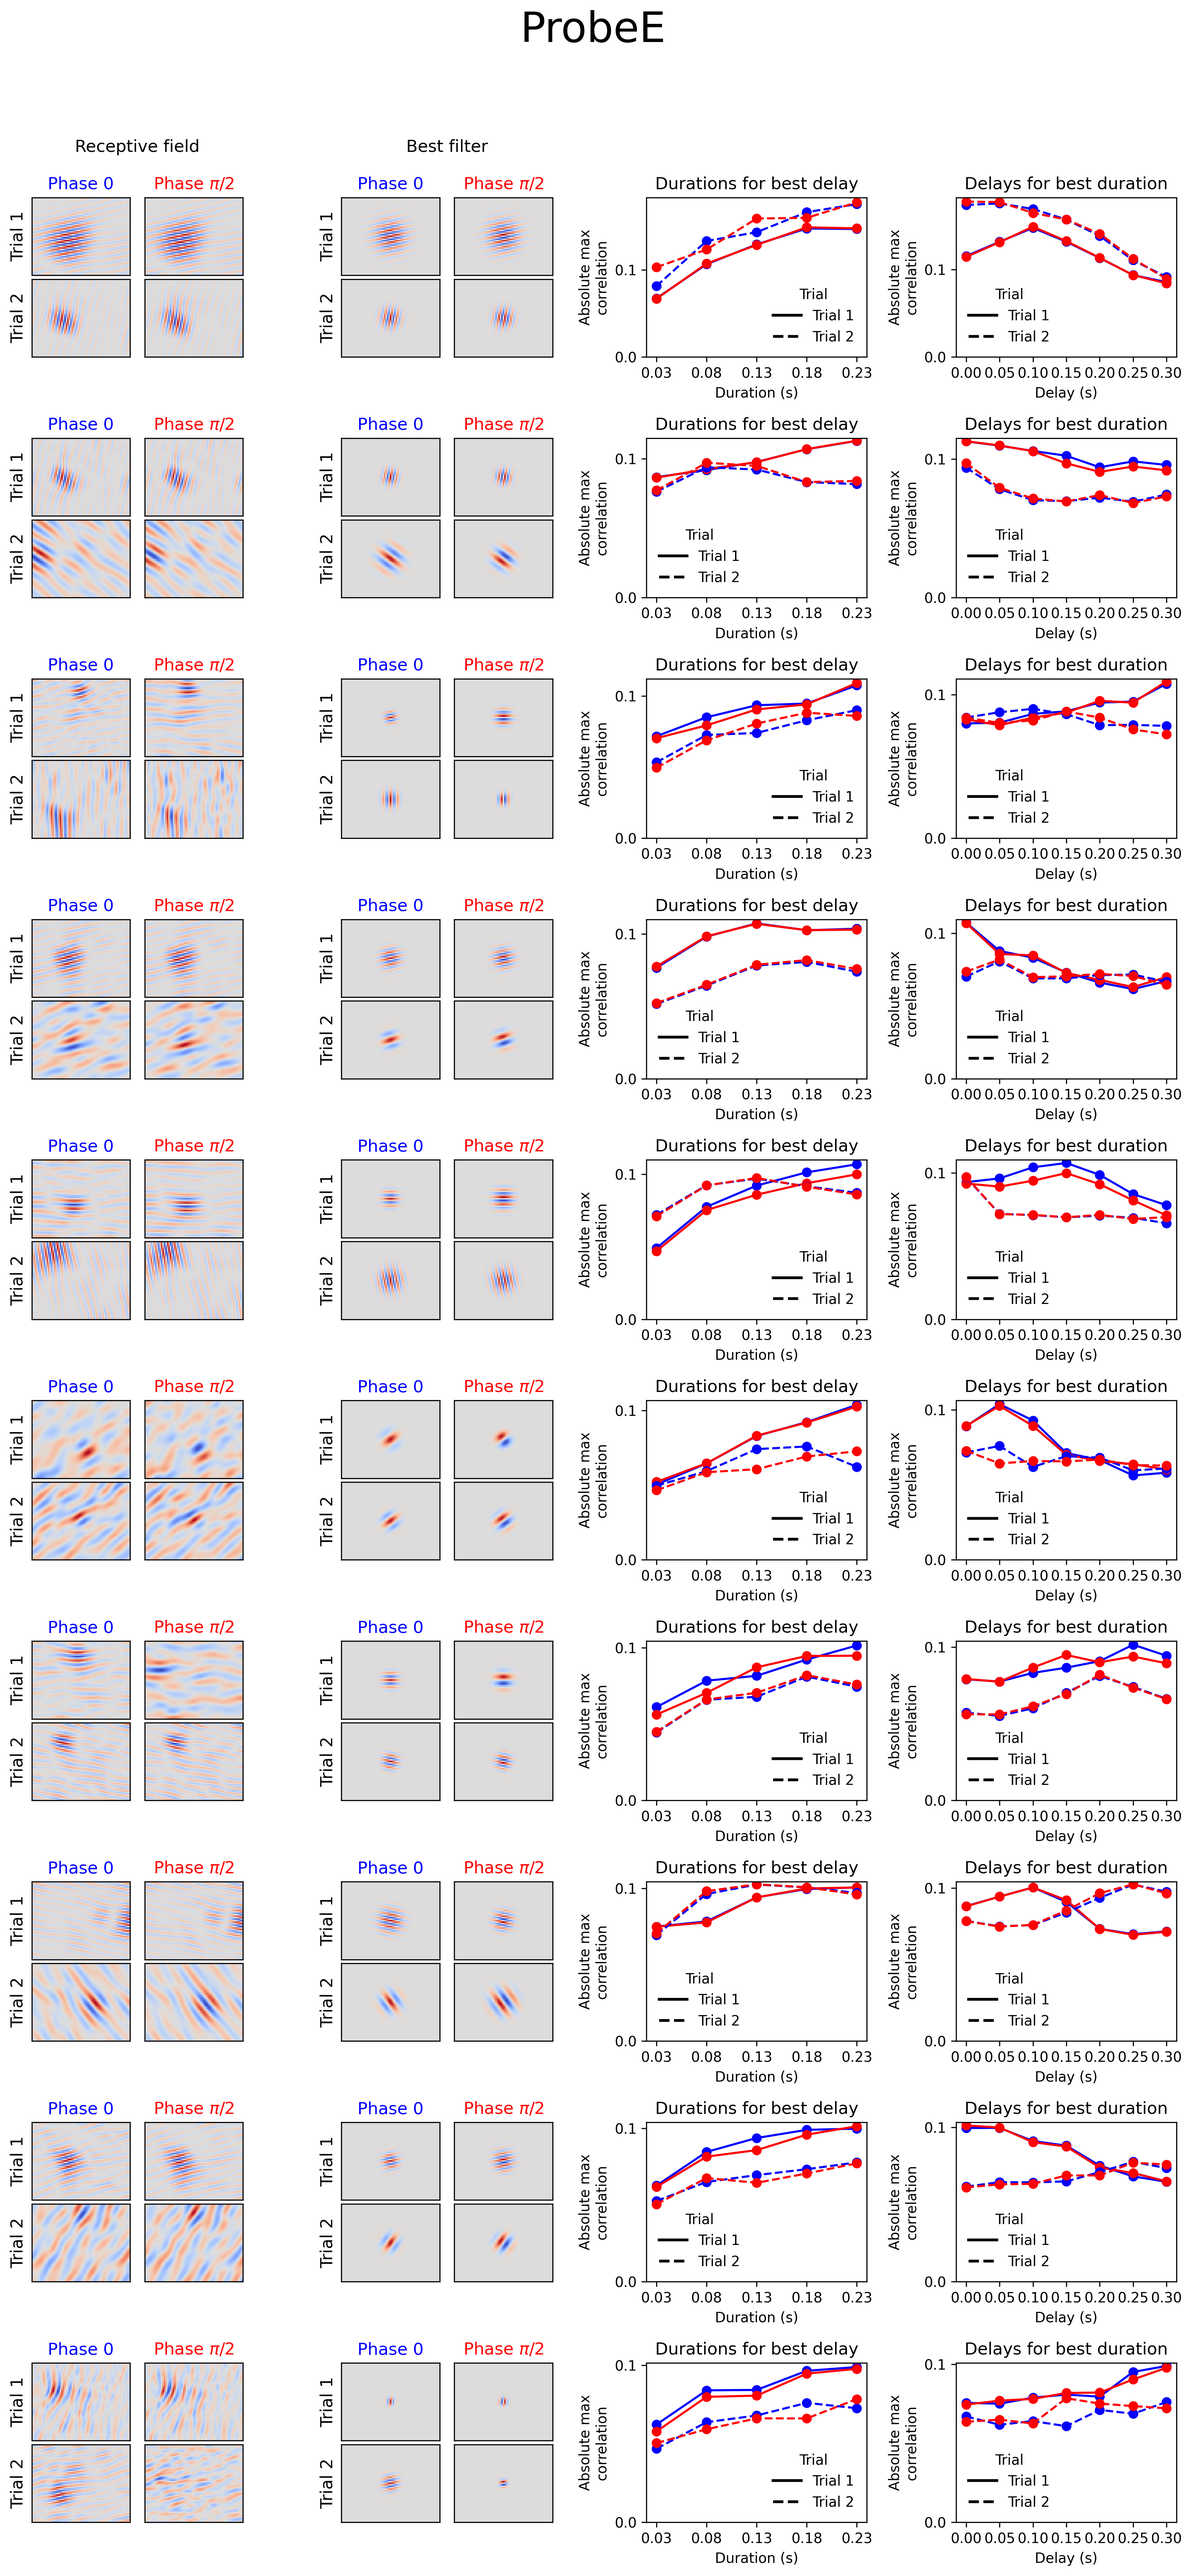
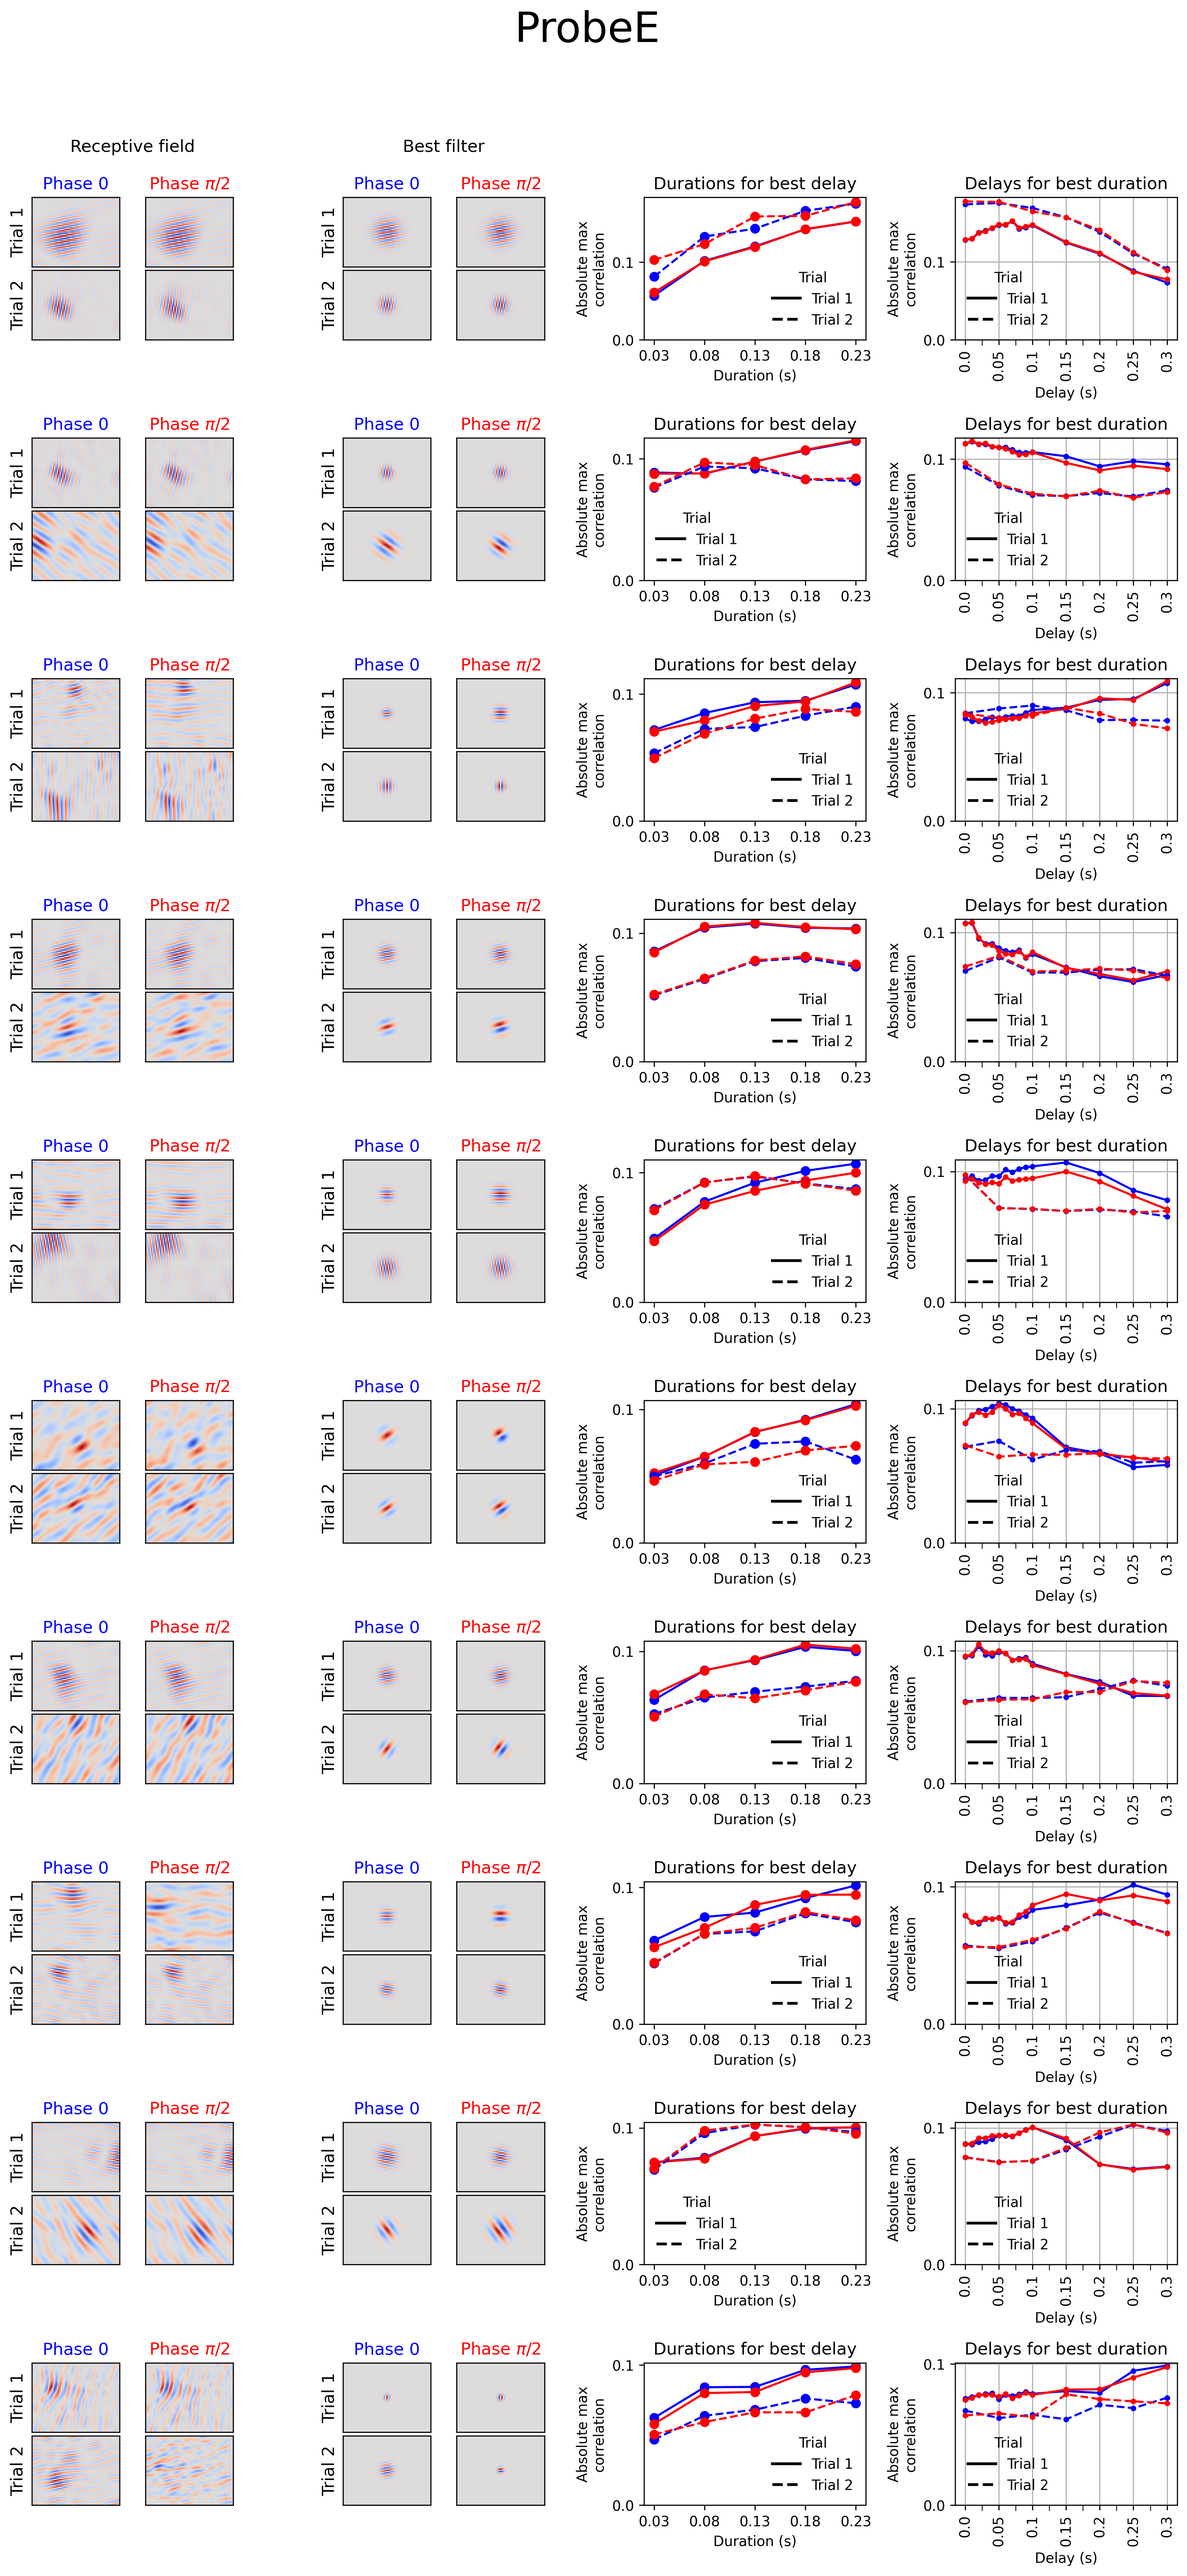
add avg RF plot

diff --git a/analysis/plotting.py b/analysis/plotting.py
@@ -1,0 +1,269 @@
+import pandas as pd
+import numpy as np
+import sys
+sys.path.append('..')
+
+from pathlib import Path
+import matplotlib.pyplot as plt
+
+from scripts.optimize_waven_parameters import load_rf_maps, load_rf_results
+import utils
+
+
+
+import matplotlib.gridspec as gridspec
+from matplotlib.lines import Line2D
+
+from scripts.waven_settings import *
+from matplotlib.ticker import MultipleLocator
+import Waven.WaveletGenerator as wg
+
+
+
+
+def get_statistics_per_probe(probe:str, nwb_path, results_path,  rate_threshold=2): 
+
+    # nwb_path = '../../../rawdata/allen_open_scope/sub-830794/sub-830794_ses-ecephys-830794-2026-01-26-12-02-05_ecephys.nwb'
+    stream = utils.open_local(nwb_path)
+    units_df = stream.units_df()
+    units_df['unit_name'] = units_df['unit_name'].astype(str)
+
+    zebra_df = stream.zebra_df()
+
+    # RESULTS_PATH = Path('../../../results/allen_open_scope/rf/waven/zebra/optimized/sub-830794_ses-ecephys-830794-2026-01-26-12-02-05_ecephys')
+    dfs = []
+    for trial in [0,1]:
+        for phase in [0, 1]:
+            ov_file = list(results_path.glob(f'*{probe}__trial_{trial}__phase_{phase}.h5'))[0]
+            tmp_df = load_rf_results(ov_file)
+            tmp_df['trial'] = trial
+            tmp_df['phase'] = phase
+            dfs.append(tmp_df)
+            
+    ov_df = pd.concat(dfs, ignore_index=True)
+    ov_df = ov_df.sort_values('abs_max_value', ascending=False)
+    ov_df.reset_index(inplace=True, drop=True)
+
+
+    zebra_df['TrialNumber'].unique()
+    t_start = zebra_df.loc[zebra_df['TrialNumber']==  '59558.0', 'start_time'].values[0]
+    t_stop  = zebra_df.loc[zebra_df['TrialNumber']=='59558.0', 'stop_time'].values[-1]
+    dt = t_stop - t_start
+
+    def rate(unit):
+        spk = units_df.loc[units_df['unit_name']==unit, 'spike_times'].values[0]
+        rate = (np.searchsorted(spk, t_stop) - np.searchsorted(spk, t_start))/dt
+        return rate
+    ov_df['rate'] = ov_df['unit_id'].apply(rate)
+    ov_df = ov_df[ov_df['rate'] > rate_threshold]
+    ov_df.reset_index(inplace=True, drop=True)
+
+
+
+    dfs = []
+    df_all = []
+    for trial in [0,1]:
+        for phase in [0, 1]:
+            file = list(results_path.glob(f'*{probe}__trial_{trial}__phase_{phase}_all_values.csv'))[0]
+            df = pd.read_csv(file)
+            df['trial'] = trial
+            df['phase'] = phase
+            df_all.append(df)
+            
+            df_best = pd.DataFrame(df.groupby('unit_id')['abs_max_value'].idxmax()).reset_index()
+            df_best['duration'] = [df.loc[idx, 'duration'] for idx in df_best['abs_max_value']]
+            df_best['delay'] = [df.loc[idx, 'delay'] for idx in df_best['abs_max_value']]
+            df_best['trial'] = trial
+            df_best['phase'] = phase
+            dfs.append(df_best)
+    df_best = pd.concat(dfs, ignore_index=True)
+    df_all = pd.concat(df_all, ignore_index=True)
+
+
+    trial_phase_00 = ov_df.query('trial==0 and phase==0').sort_values('abs_max_value', ascending=False).reset_index(drop=True)
+
+    return ov_df, df_best, df_all, trial_phase_00
+
+
+def plot_optimized_results(probe:str, NY, nwb_path, results_path,  rate_threshold=2, path_printing=None): 
+
+    ov_df, df_best, df_all, trial_phase_00 = get_statistics_per_probe(probe, nwb_path, results_path, rate_threshold)
+
+    f, axs = plt.subplots(NY, 4, figsize=(NY*1.2, NY*2.5))
+
+    # delays = np.arange(0.0, 0.35, 0.05)
+    # durations = np.arange(0.03, 0.28, 0.05)
+
+    trial_handles = [
+        Line2D([0], [0], color='k', linestyle='-', lw=2, label='Trial 1'),
+        Line2D([0], [0], color='k', linestyle='--', lw=2, label='Trial 2'),
+    ]
+    highest_abs_max = np.round(ov_df['abs_max_value'].max(),1)
+
+
+    # PLOTTING 
+    for idx in range(NY):
+        ax = axs[idx]
+
+        # Split axes[1] into a 2x2 grid
+        inner = gridspec.GridSpecFromSubplotSpec(2, 2, subplot_spec=ax[0].get_subplotspec(), wspace=0.05, hspace=0.05)
+        # ax[0].remove()  # remove the original axes
+        ax_inner = np.array([[f.add_subplot(inner[0, 0]), f.add_subplot(inner[0, 1])],
+                            [f.add_subplot(inner[1, 0]), f.add_subplot(inner[1, 1])]])
+        # ax00 = f.add_subplot(inner[0, 0])
+        # ax01 = f.add_subplot(inner[0, 1])
+        # ax10 = f.add_subplot(inner[1, 0])
+        # ax11 = f.add_subplot(inner[1, 1])
+        unit = trial_phase_00.loc[idx, 'unit_id']
+        for trial in [0,1]:
+            for phase in [0,1]:
+                a = ax_inner[trial, phase]
+                map = ov_df.query(f"trial=={trial} and phase=={phase} and unit_id=='{unit}'")['rf_map'].values[0].T
+                abs_max = ov_df.query(f"trial=={trial} and phase=={phase} and unit_id=='{unit}'")['abs_max_value'].values[0]
+                a.imshow(map, cmap='coolwarm', vmin=-abs_max, vmax=abs_max)
+
+                a.set_xticks([])
+                a.set_yticks([])
+                # rate = ov_df.loc[idx, 'rate']
+                # ax[0].set_title(f"Abs. max correlation: {ov_df.loc[idx, 'abs_max_value']:.2f}")#\nRate: {rate:.1f} Hz")
+        ax_inner[0,0].set_title("Phase 0", fontsize=12, color='b')
+        ax_inner[0,1].set_title("Phase $\pi$/2", fontsize=12, color='r')
+        ax_inner[0,0].set_ylabel("Trial 1", fontsize=12)
+        ax_inner[1,0].set_ylabel("Trial 2", fontsize=12)
+        ax[0].set_axis_off()
+
+
+        inner = gridspec.GridSpecFromSubplotSpec(2, 2, subplot_spec=ax[1].get_subplotspec(), wspace=0.05, hspace=0.05)
+        # ax[0].remove()  # remove the original axes
+        ax_inner = np.array([[f.add_subplot(inner[0, 0]), f.add_subplot(inner[0, 1])],
+                            [f.add_subplot(inner[1, 0]), f.add_subplot(inner[1, 1])]])
+        lx = 67
+        ly = 53
+
+        for trial in [0,1]:
+            for phasei, phase in enumerate([0,np.pi/2]):
+                a = ax_inner[trial, phasei]
+
+                theta = thetas[ov_df.query(f"trial=={trial} and phase=={phasei} and unit_id=='{unit}'")['theta_idx'].values[0]]
+                sigma = sigmas[ov_df.query(f"trial=={trial} and phase=={phasei} and unit_id=='{unit}'")['sigma_idx'].values[0]]
+                frequency = frequencies[ov_df.query(f"trial=={trial} and phase=={phasei} and unit_id=='{unit}'")['frequency_idx'].values[0]]
+                best_filter = wg.makeGaborFilter(lx//2, #ov_df.loc[idx, 'xi'],
+                                            ly//2, #ov_df.loc[idx, 'yi'], 
+                                            theta, 
+                                            sigma, 
+                                            phase, 
+                                            frequency, 
+                                            lx, ly)
+                a.imshow(best_filter, cmap='coolwarm', vmin=-best_filter.max(), vmax=best_filter.max())
+                a.set_xticks([])
+                a.set_yticks([])
+                # rate = ov_df.loc[idx, 'rate']
+                # ax[0].set_title(f"Abs. max correlation: {ov_df.loc[idx, 'abs_max_value']:.2f}")#\nRate: {rate:.1f} Hz")
+        ax_inner[0,0].set_title("Phase 0", fontsize=12, color='b')
+        ax_inner[0,1].set_title("Phase $\pi$/2", fontsize=12, color='r')
+        ax_inner[0,0].set_ylabel("Trial 1", fontsize=12)
+        ax_inner[1,0].set_ylabel("Trial 2", fontsize=12)
+        ax[1].set_axis_off()
+
+
+
+
+        for trial, linestyle in zip([0,1], ['-', '--']):
+            for (phasei, phase), color in zip(enumerate([0,np.pi/2]), ['b', 'r']):
+                delay = df_best.query(f"trial=={trial} and phase=={phasei} and unit_id=='{unit}'")['delay'].values[0]
+                durations = df_all.query(f"trial=={trial} and phase=={phasei} and unit_id=='{unit}' and delay=={delay}")['duration'].values
+                abs_max_values = df_all.query(f"trial=={trial} and phase=={phasei} and unit_id=='{unit}' and delay=={delay}")['abs_max_value'].values
+
+                ax[2].plot(durations, abs_max_values, alpha=1, marker='o', linestyle=linestyle, color=color, label=f'Trial {trial+1}, phase {phase:.2f}')
+                ax[2].set_xlabel('Duration (s)')
+                ax[2].set_ylabel('Absolute max\ncorrelation')
+                ax[2].set_title(f"Durations for best delay")
+                ax[2].set_xticks(durations)
+                ax[2].legend(handles=trial_handles, title='Trial',frameon=False)
+                ax[2].set_yticks(np.arange(0, highest_abs_max, 0.1))
+                ax[2].set_yticklabels(np.round(np.arange(0, highest_abs_max, 0.1),1))
+
+
+
+        for trial, linestyle in zip([0,1], ['-', '--']):
+            for (phasei, phase), color in zip(enumerate([0,np.pi/2]), ['b', 'r']):
+                duration = df_best.query(f"trial=={trial} and phase=={phasei} and unit_id=='{unit}'")['duration'].values[0]
+                delays = df_all.query(f"trial=={trial} and phase=={phasei} and unit_id=='{unit}' and duration=={duration}")['delay'].values
+                abs_max_values = df_all.query(f"trial=={trial} and phase=={phasei} and unit_id=='{unit}' and duration=={duration}")['abs_max_value'].values
+
+                ax[3].plot(delays, abs_max_values, alpha=1, marker='o', markersize=3, linestyle=linestyle, color=color, label=f'Trial {trial+1}, phase {phase:.2f}')
+        ax[3].set_xlabel('Delay (s)')
+        ax[3].set_ylabel('Absolute max\ncorrelation')
+        ax[3].set_title(f"Delays for best duration")
+        # ax[3].set_xticks(np.unique(delays), np.unique(delays), rotation=90)
+        # ax[3].set_xticks(np.round(np.arange(0,.4,.05),2), np.round(np.arange(0,.4,.05),2), rotation=90)
+        major_ticks = np.round(np.arange(0, .35, .05), 2)
+        ax[3].set_xticks(major_ticks)
+        ax[3].set_xticklabels(major_ticks, rotation=90)
+
+        step = major_ticks[1] - major_ticks[0] if len(major_ticks) > 1 else 0.05
+        ax[3].xaxis.set_minor_locator(MultipleLocator(step / 2))
+        ax[3].tick_params(axis='x', which='minor', length=4)
+
+        # print(ax[3].get_xticks())
+        ax[3].legend(handles=trial_handles, title='Trial', frameon=False)
+        ax[3].set_yticks(np.arange(0, highest_abs_max, 0.1))
+        ax[3].set_yticklabels(np.round(np.arange(0, highest_abs_max, 0.1),1))
+
+        ax[3].grid()
+
+    #     duration = df_best[df_best['unit_id'] == unit]['duration'].values[0]
+    #     delays = df.loc[(df['unit_id'] == unit) & (df['duration']==duration), 'delay'].values
+    #     abs_max_values = df.loc[(df['unit_id'] == unit) & (df['duration']==duration), 'abs_max_value'].values
+    #     ax[3].plot(delays, abs_max_values, alpha=1, color='b', marker='o')
+    #     ax[3].set_xlabel('Delay (s)')
+    #     ax[3].set_ylabel('Absolute max\ncorrelation')
+    #     ax[3].set_title(f"Delays for best duration")
+    #     ax[3].set_xticks(delays)
+
+    axs[0,0].set_title("Receptive field\n\n", fontsize=12)
+    axs[0,1].set_title("Best filter\n\n", fontsize=12)
+
+    f.suptitle(probe, fontsize=30, y=1.02)
+    f.tight_layout()
+
+
+    if path_printing is not None:
+        path_printing = Path(path_printing)
+        path_printing.mkdir(parents=True, exist_ok=True)
+        plt.savefig(path_printing/f'{probe}_optimized_results.png', dpi=300, bbox_inches='tight')
+
+
+def plot_avg_rf(probe, nwb_path, results_path, rate_threshold, f, ax):
+    try:
+        ov_df, df_best, df_all, trial_phase_00 = get_statistics_per_probe(probe, nwb_path, results_path, rate_threshold)
+    except Exception as e:
+        print(f"Error processing probe {probe}: {e}")
+        ax.text(0.5, 0.5, f'{probe} failed', ha='center', va='center', transform=ax.transAxes)
+        ax.set_axis_off()
+        return None
+
+    ax.set_axis_off()
+    inner = gridspec.GridSpecFromSubplotSpec(2, 2, subplot_spec=ax.get_subplotspec(), wspace=0.05, hspace=0.05)
+    ax_inner = np.array([[f.add_subplot(inner[0, 0]), f.add_subplot(inner[0, 1])],
+                            [f.add_subplot(inner[1, 0]), f.add_subplot(inner[1, 1])]])
+
+    for phase in [0,1]:
+        for trial in [0,1]:
+            subset = ov_df.query(f'trial=={trial} and phase=={phase}')
+            avg_rf = np.sum(subset['abs_max_value'].values * subset['rf_map'].values) / np.sum(subset['abs_max_value'].values)
+
+            axi = ax_inner[trial, phase]
+            axi.imshow(avg_rf.T, cmap='coolwarm', vmin=-avg_rf.max(), vmax=avg_rf.max())
+            axi.set_xticks([])
+            axi.set_yticks([])
+
+    ax.set_title(probe, fontsize=12)
+    ax_inner[0,0].set_title("Phase 0", fontsize=12, color='b')
+    ax_inner[0,1].set_title("Phase $\pi$/2", fontsize=12, color='r')
+    ax_inner[0,0].set_ylabel("Trial 1", fontsize=12)
+    ax_inner[1,0].set_ylabel("Trial 2", fontsize=12)
+
+
+
+    return ax_inner
